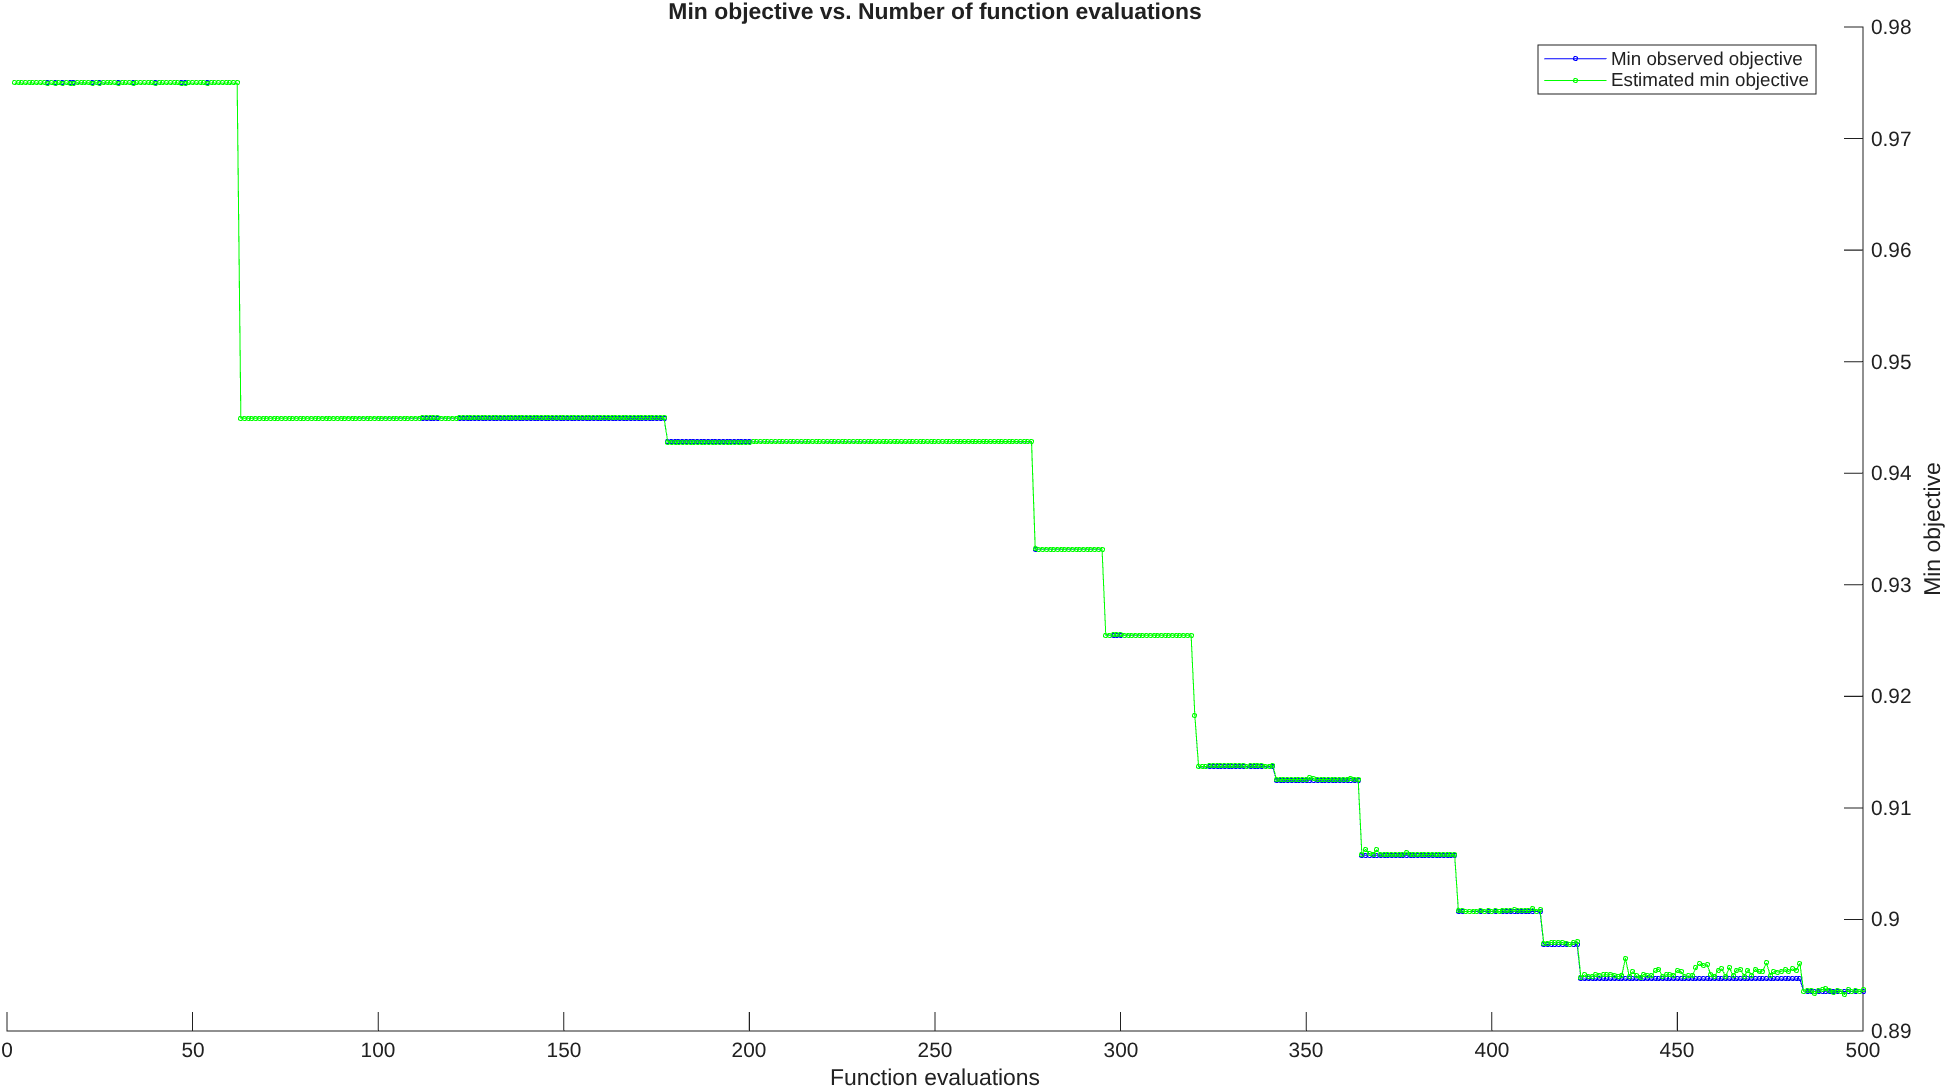
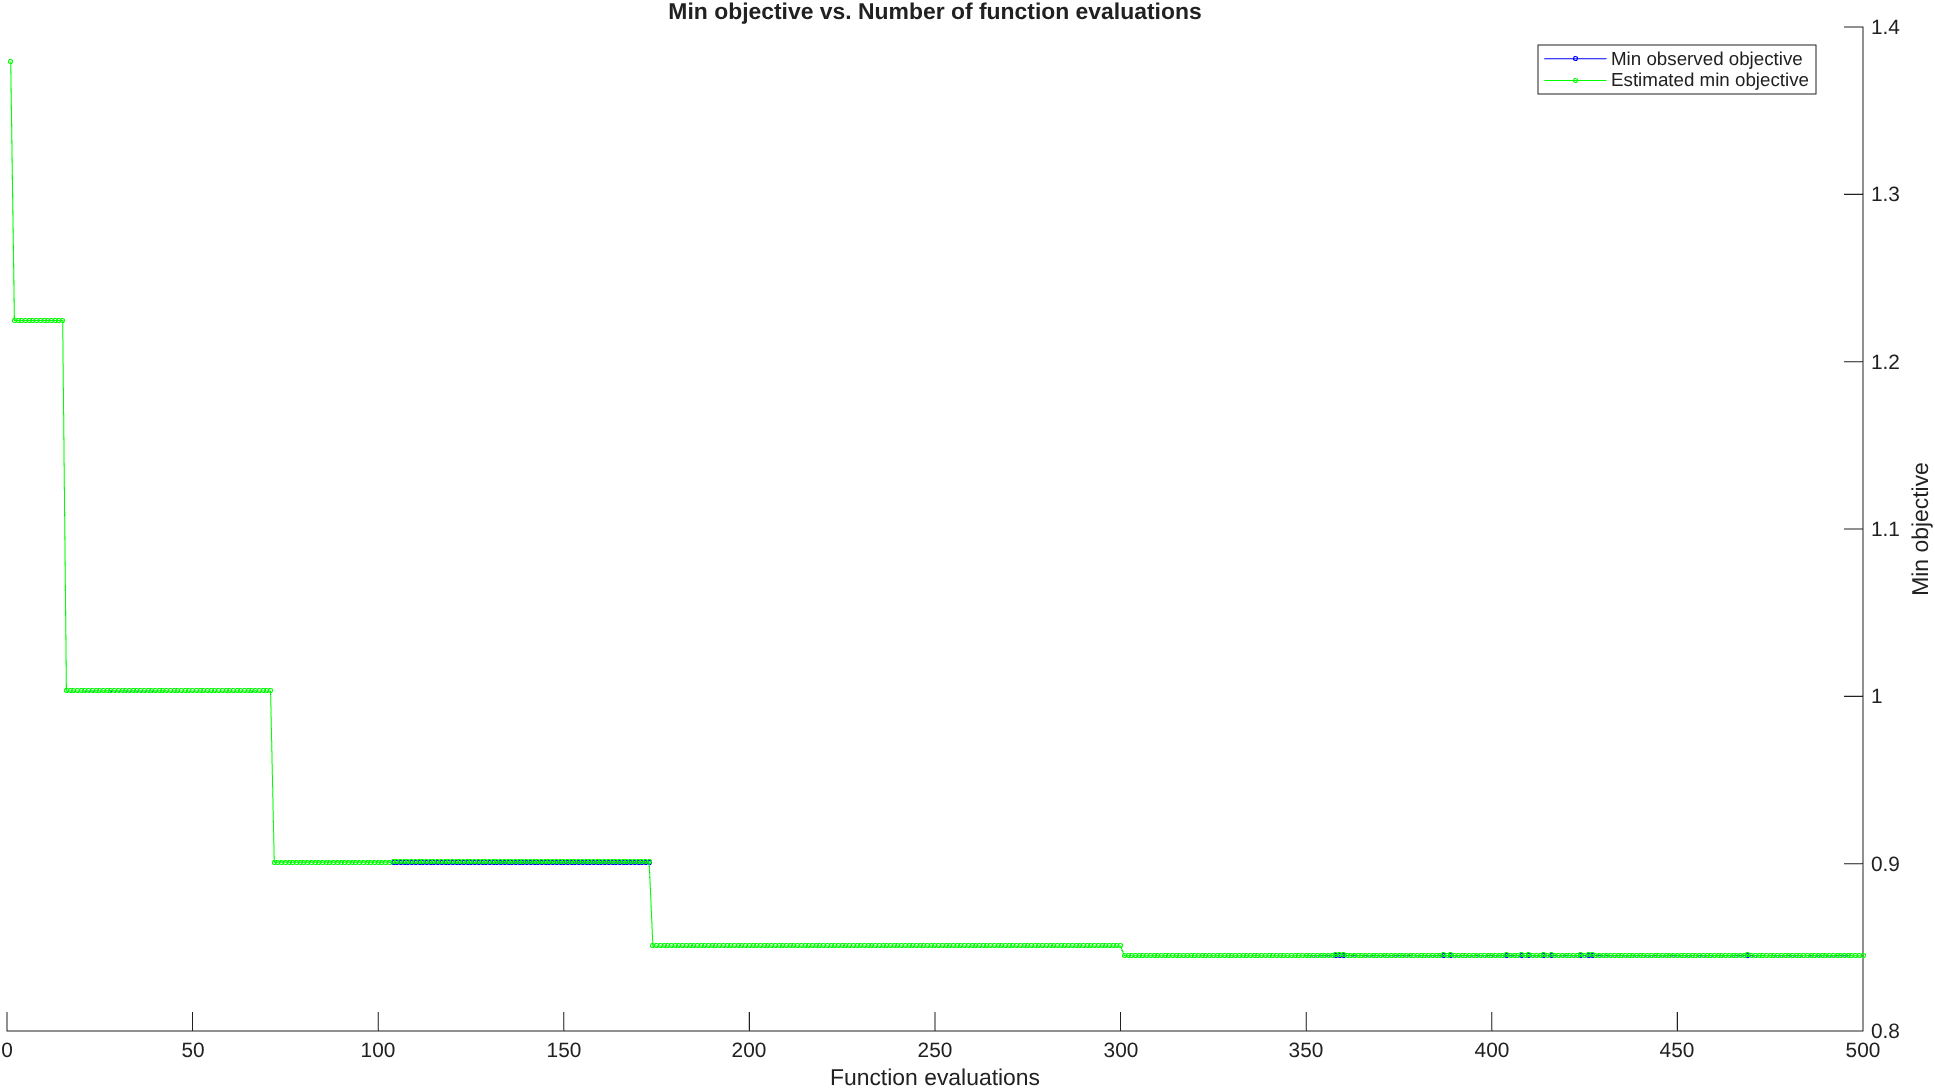
Optimisation graph added, trialled cascade PID model architecture but saw that performance was not as good, plotted in matlab the different responses for mission profiles, changed rig mass values for real structure.

diff --git a/plotting.m b/plotting.m
@@ -1,0 +1,21 @@
+t_desired = time;
+h_desired = (out.step_height.Data)';
+h_actual = out.noisy_height;
+t_actual = linspace(0,74.65,301);
+
+figure;
+% Plot desired height response (red dashed)
+plot(t_desired, h_desired(1:1494), 'r--', 'LineWidth', 1.5);
+hold on;
+
+% Plot actual height response (solid blue)
+plot(t_actual, h_actual, 'b-', 'LineWidth', 1.5);
+
+% Axis labels
+xlabel('Time (s)');
+ylabel('Height (m)');
+
+% Legend
+legend('Desired Height', 'Actual Height', 'Location', 'best');
+
+grid on;

diff --git a/determine_cost.m b/determine_cost.m
@@ -1,11 +1,5 @@
 function [J, MSD, E] = determine_cost(Kp, Ki, Kd, N, m, x_thrust, x_cg, F_static, mu_k)
 % DETERMINE_COST  Run the controller model and return the weighted cost J.
-%
-%   Same interface as before. The model stores `params` in its MODEL workspace
-%   (DataSource = 'Model File'), so SimulationInput.setVariable is shadowed -
-%   the override must be written into the model workspace. run_with_params does
-%   exactly that (and restores the original afterwards). m_fixed is recomputed
-%   from m inside build_params so structural mass actually propagates.
 
 profile = 2;
 
@@ -18,11 +12,11 @@ params = build_params(struct( ...
 
 sim_output = run_with_params('controller', Kp, Ki, Kd, N, params, profile);
 
-MSD_manual = 0.002926; % Manually tuned MSD
-E_manual   = 10.78;    % Manually tuned energy
+MSD_manual = 0.002082; % Manually tuned MSD
+E_manual = 12.9;    % Manually tuned energy
 
 MSD = sim_output.MSD.Data(end);
-E   = sim_output.energy.Data(end);
+E = sim_output.energy.Data(end);
 
 J = (3/7) * (E / E_manual) + (4/7) * (MSD / MSD_manual);
 end

diff --git a/run_bayesopt.m b/run_bayesopt.m
@@ -1,8 +1,8 @@
 % Load nominal model parameters
-m_structure = 0.02825;
+m_structure = 0.0287;
 x_thrust = 0.03875;
-x_cg = 0.03888;
-F_static = 1.275;
+x_cg = 0.035;
+F_static = 1.2753;
 mu_k = 0.17;
 
 
@@ -13,7 +13,7 @@ fprintf('Setting up Bayesian Optimization...\n');
 Kp_var = optimizableVariable('Kp', [50, 400], 'Type', 'real');
 Ki_var = optimizableVariable('Ki', [50, 400], 'Type', 'real');
 Kd_var = optimizableVariable('Kd', [10, 100], 'Type', 'real');
-N_var  = optimizableVariable('N', [5, 100], 'Type', 'real');
+N_var  = optimizableVariable('N', [5, 50], 'Type', 'real');
 
 vars = [Kp_var, Ki_var, Kd_var, N_var];
 
@@ -25,7 +25,7 @@ obj_fun = @(t) determine_cost_wrapper(t, m_structure, x_thrust, x_cg, F_static, 
 % MaxObjectiveEvaluations dictates how many Simulink runs occur.
 % Expected Improvement (EI) balances exploring new areas and exploiting known good ones.
 results = bayesopt(obj_fun, vars, ...
-    'MaxObjectiveEvaluations', 1000, ... 
+    'MaxObjectiveEvaluations', 300, ... 
     'AcquisitionFunctionName', 'expected-improvement-plus', ...
     'IsObjectiveDeterministic', true, ...
     'PlotFcn', {@plotObjectiveModel, @plotMinObjective});

diff --git a/noise_estimation.m b/noise_estimation.m
@@ -5,12 +5,12 @@ t = sampleH(1, :);
 h = sampleH(2, :);
 
 % Keep only samples after t = 68 s
-mask = t > 68;
+mask = t > 67;
 t = t(mask);
 h = h(mask);
 
 % Smooth the signal and estimate residual noise
-windowSize = 20;
+windowSize = 8;
 hSmooth = movmean(h, windowSize);
 residual = h - hSmooth;
 noiseVar = var(residual);

diff --git a/rig.m b/rig.m
@@ -5,7 +5,7 @@ function params = rig()
     m_motor = 0.114; % [kg] each (motor 35-36)
     m_esc = 0.040; % [kg] each
     m_propeller = 0.010; % [kg] each
-    params.m_structure = 0.02825; % [kg] CAD design EDIT - ONLY 1 arm
+    params.m_structure = 0.06276 / 2; % [kg] CAD design EDIT - ONLY 1 arm
 
     params.m_fixed = m_cart + 2*(m_motor + m_esc + m_propeller + params.m_structure);
 